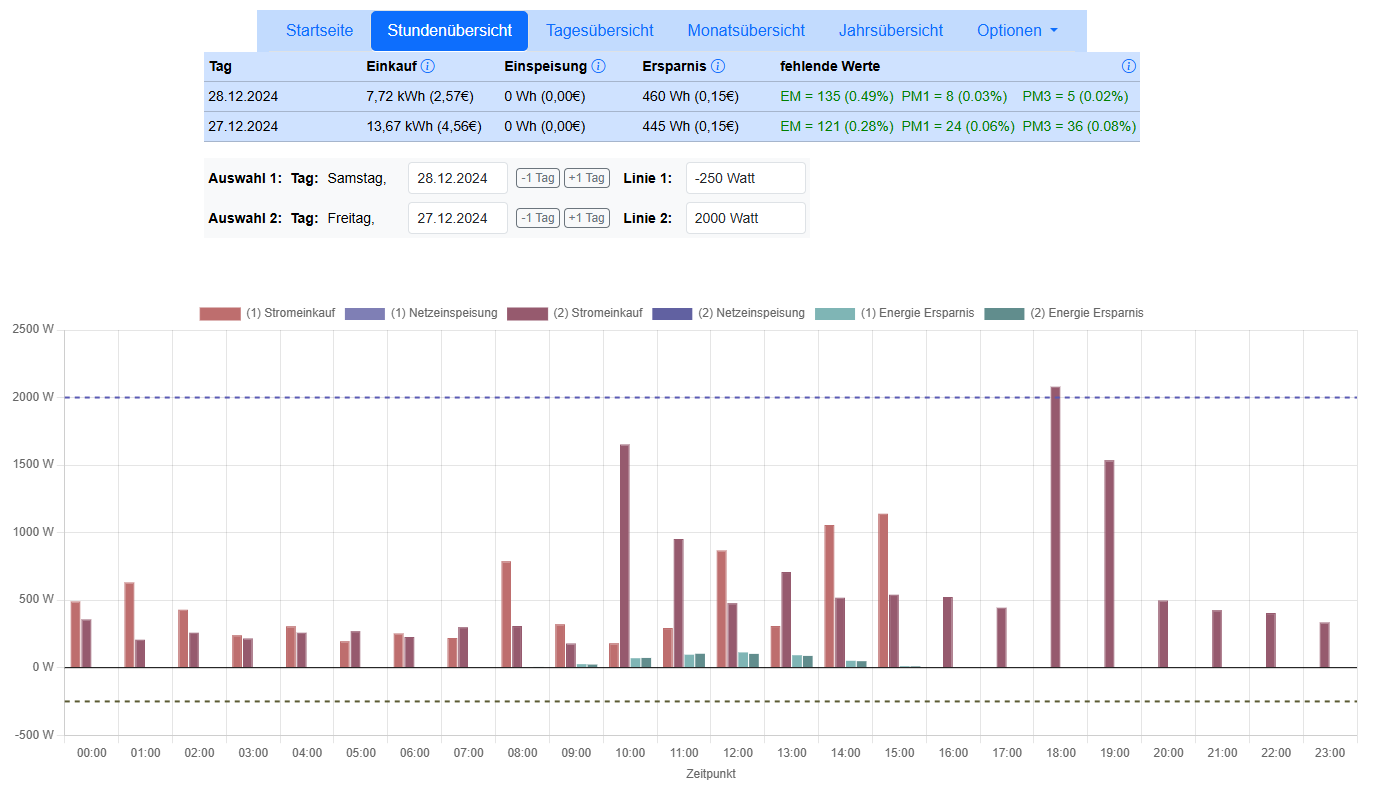
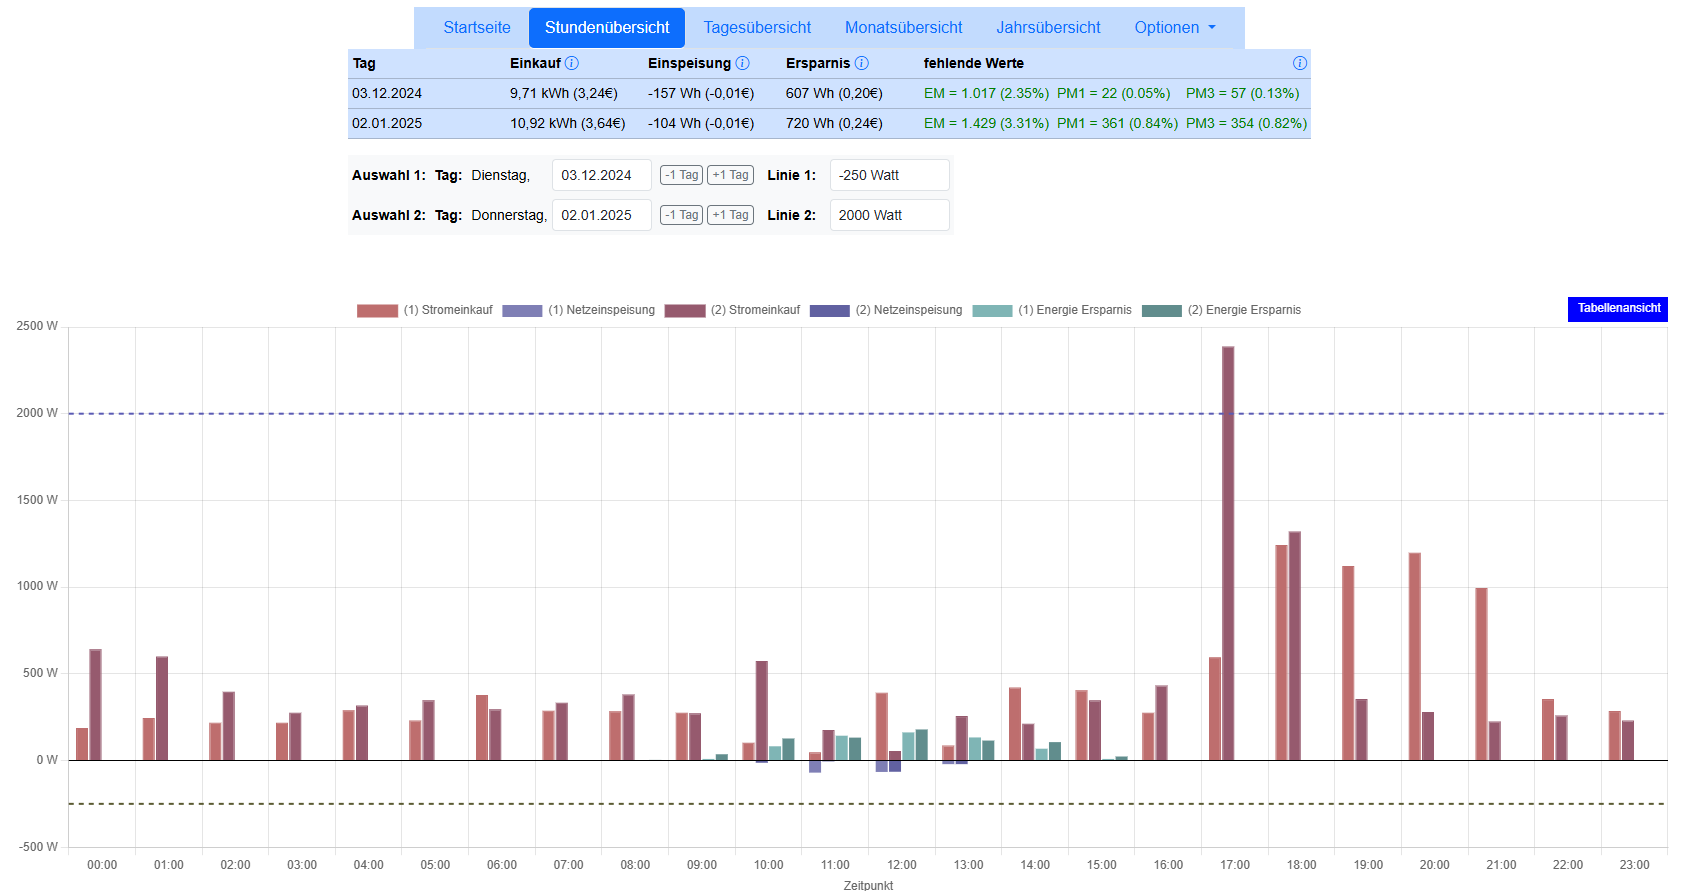
Gallery erweitert um Tabellenansicht

diff --git a/gallery.md b/gallery.md
@@ -8,11 +8,18 @@ Energie-Visualisierung für zu Hause – Beschreibung siehe hier [readme.md](./R
 Zeigt die in Echtzeit (z. B. alle 2 Sekunden) erfassten Energiewerte. Ermöglicht die Analyse der Werte durch zwei einstellbare Watt-Linien.
 
 
-# Stundenübersicht
+# Stundenübersicht - Diagram
 
 ![Stundenübersicht](./images/gallery/hours-overview.png "Stundenübersicht")
 
 Zeigt den Verbrauch in einer Stundenübersicht. Aus Performancegründen werden aufsummierte Werte aus den Echtzeitdaten verwendet. Es können zwei Zeitabschnitte dargestellt werden.
+
+# Stundenübersicht - Datentabelle
+
+![Stundenübersicht](./images/gallery/hours-overview-datatable.png "Stundenübersicht")
+
+Zeigt die Stundendaten in einer Tabelle an. Alle Übersichtsseiten bieten die Tabellenansicht, hier nur exemplarsich die Stundenansicht.
+
 
 # Tagesübersicht
 
